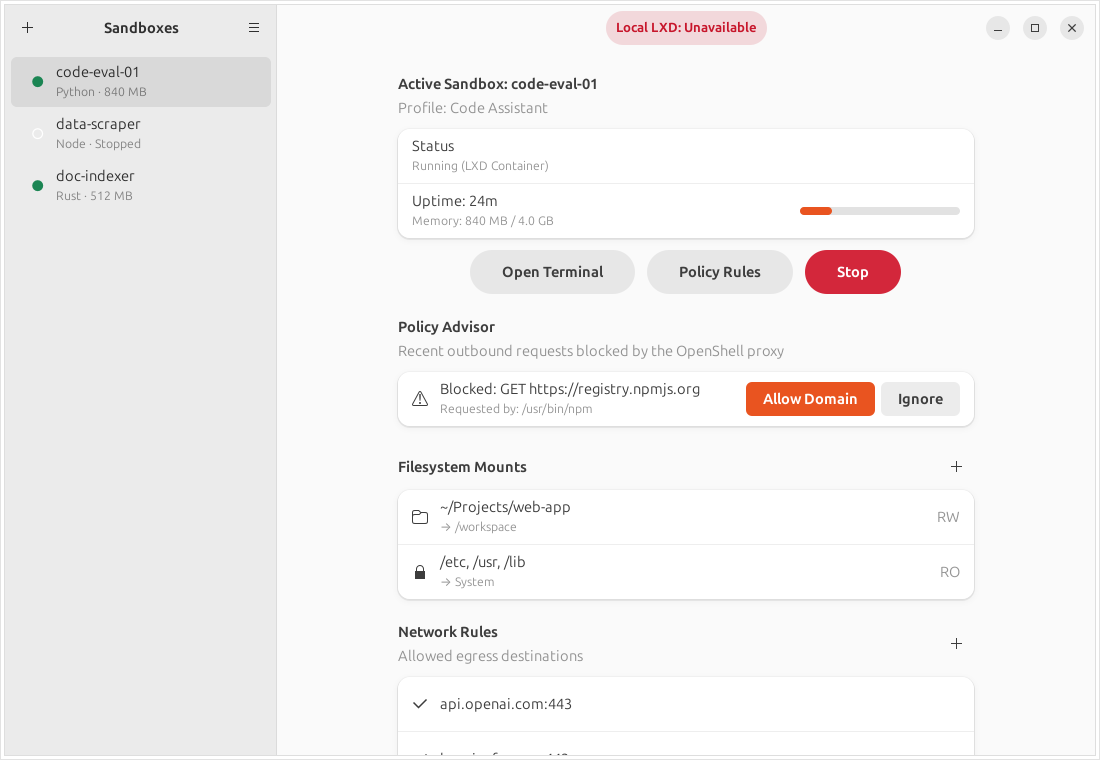
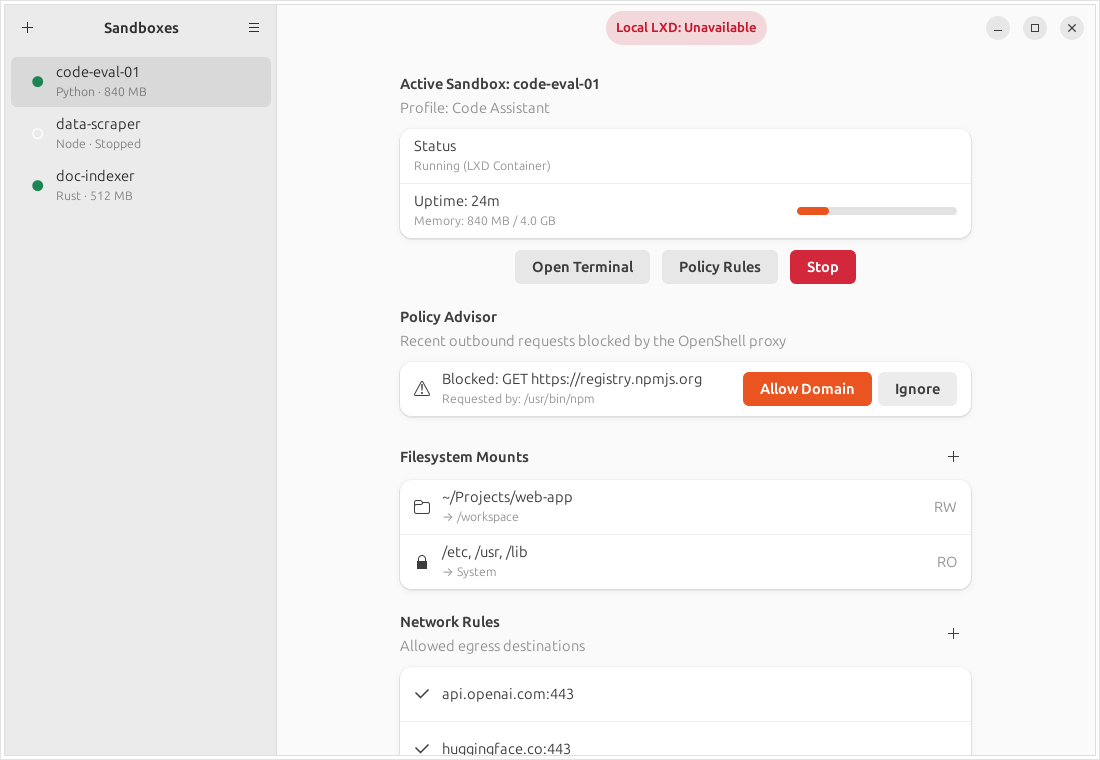
Use standard buttons instead of pills in the detail pane
Claude-Session: https://claude.ai/code/session_01GKhY2zqnGNBx8Dkqork4d9

diff --git a/src/ui/detail.rs b/src/ui/detail.rs
@@ -110,9 +110,6 @@ fn status_group(sandbox: &Sandbox, window: &Window) -> adw::PreferencesGroup {
         "suggested-action"
     });
     buttons.append(&toggle);
-    for button in [&terminal, &rules, &toggle] {
-        button.add_css_class("pill");
-    }
     group.add(&buttons);
     group
 }
@@ -240,7 +237,6 @@ fn danger_group(window: &Window) -> adw::PreferencesGroup {
         window,
     );
     purge.add_css_class("destructive-action");
-    purge.add_css_class("pill");
     purge.set_halign(gtk::Align::Center);
     group.add(&purge);
     group
